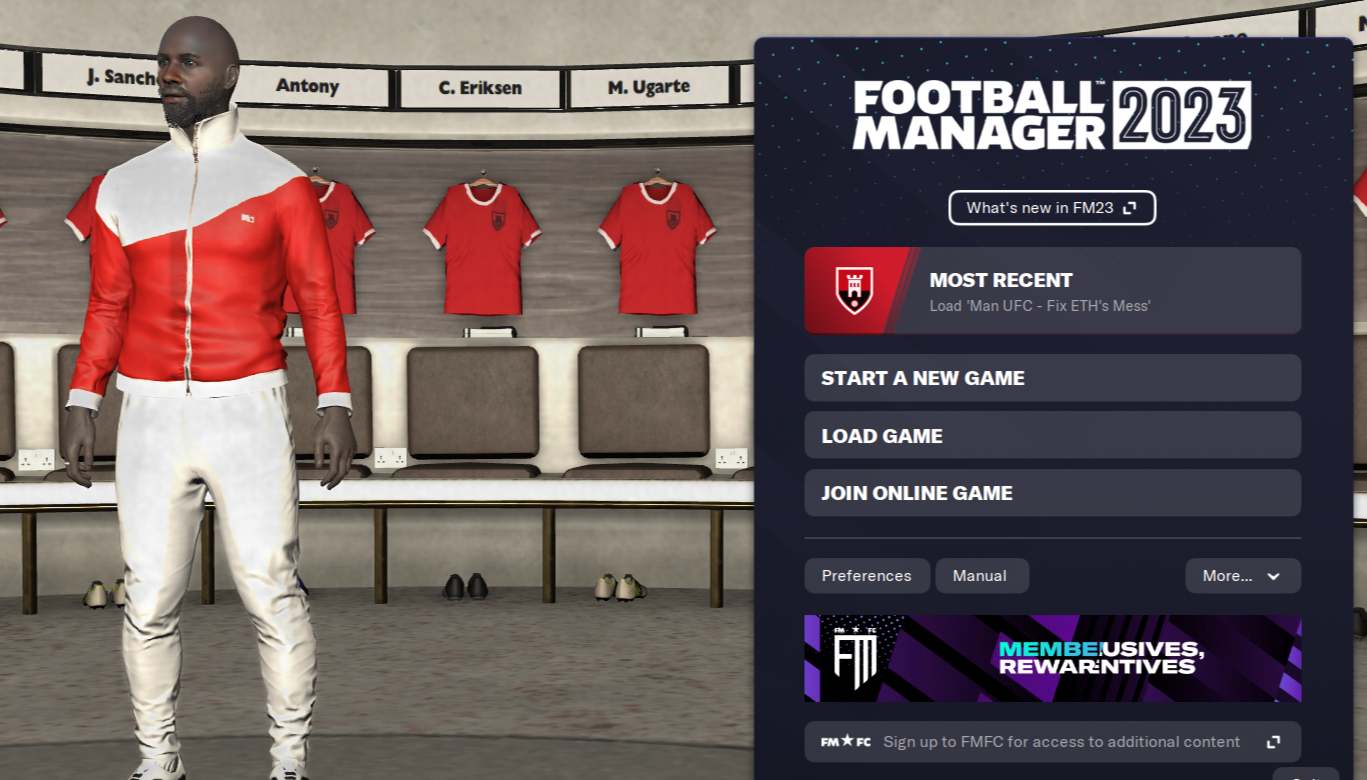
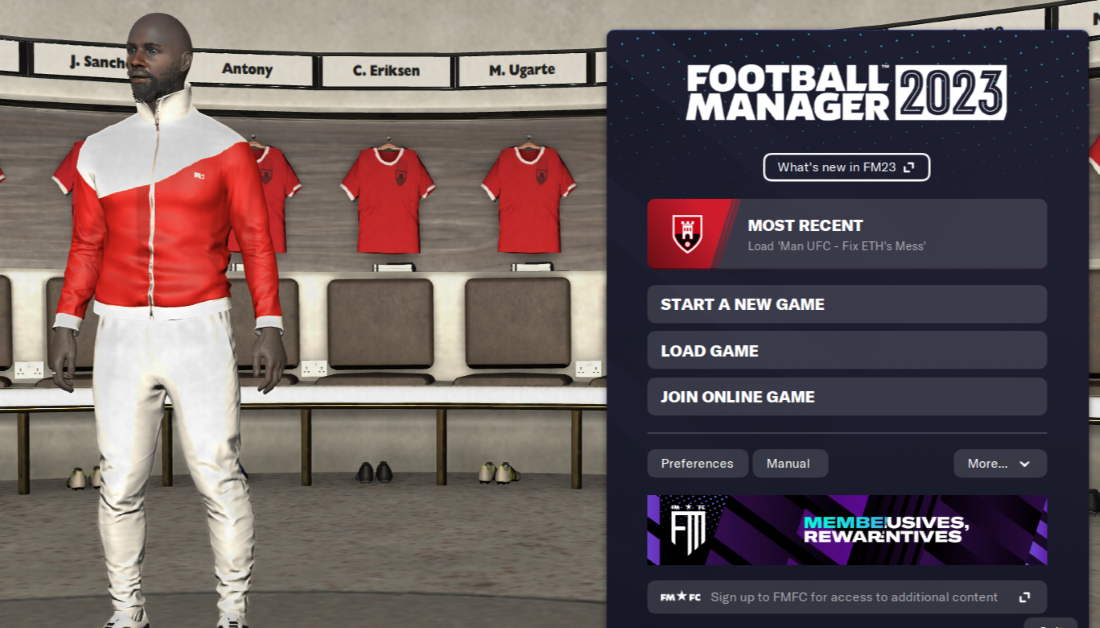
edited css style and resized Appointment.png

Changed region(s): [[0.8036, 0.8169, 0.8655, 0.8471], [0.5255, 0.6354, 0.5564, 0.6656], [0.0927, 0.9984, 0.1236, 1.0]]

diff --git a/public/index.html b/public/index.html
@@ -5,13 +5,13 @@
     <meta name="viewport" content="width=device-width, initial-scale=1.0">
     <style>
         body { font-family: Arial, sans-serif; background-color: #F0F0F0; }
-        h1 { text-align: center; color: #333333; }
+        h1 { text-align: center; background-color: red; padding: 10px 0; color: #ffffff; }
         .container { width: 80%; margin: 0 auto; }
-        .post { background-color: #FFFFFF; border: 1px solid #CCCCCC; padding: 20px; margin-bottom: 20px; }
-        .post-title { font-size: 24px; font-weight: bold; color: #000000; }
+        .post { background-color: #FFFFFF; border: 5px solid #CCCCCC; padding: 50px; margin-bottom: 20px; text-align: justify; }
+        .post-title { font-size: 24px; font-weight: bold; color: #e50a0a; }
         .post-date { font-size: 14px; color: #999999; margin-left: 10px; display: inline; }
         .post-content { font-size: 18px; color: #000000; }
-        .post-image { width: auto; height: 70%; }
+        .post-image { width: auto; height: 70%; border-radius: 10px; }
     </style>
     <title>Football Manager 2023 Story</title>
 </head>
